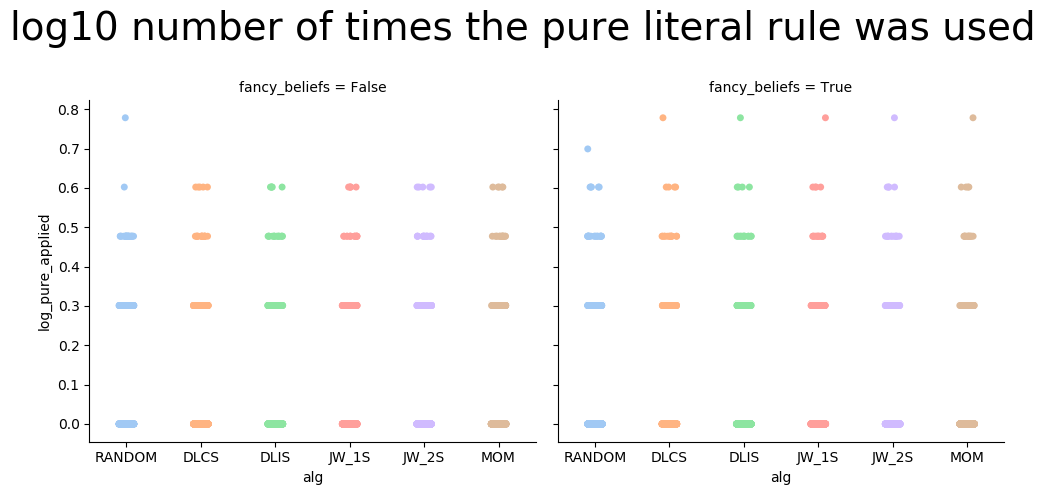
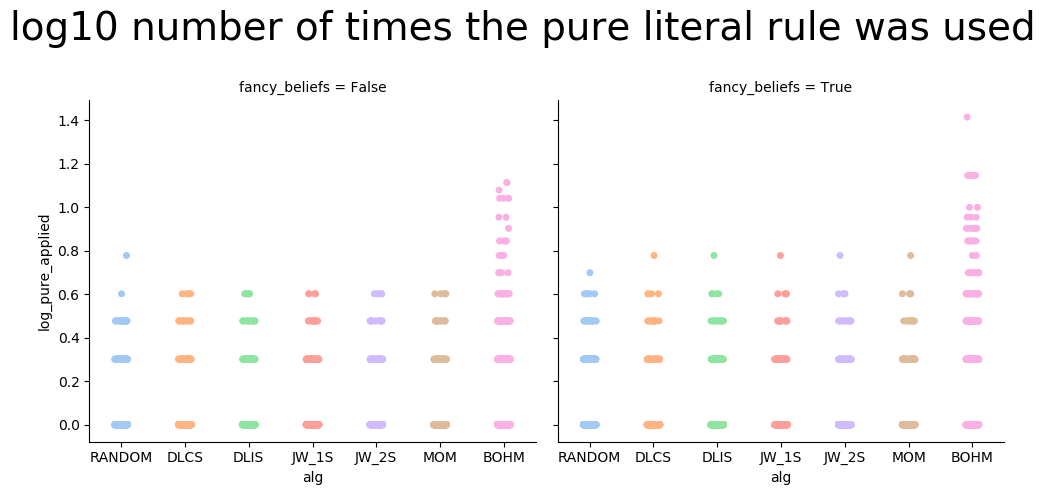
plot bohm

diff --git a/src/plot.py b/src/plot.py
@@ -12,7 +12,11 @@ df['type'] = df['inputfile'].map(lambda s: s.split(os.path.sep)[-2])
 df = df[df['type'] != 'dimacs']
 df['smart_ratio'] = df.apply(lambda x: 1 - x['backtracks'] / x['splits'], axis=1)
 # df['split_to_backtrack'] = df.apply(lambda x: x['splits'] / x['backtracks'])
-df = df[df['alg'].map(lambda x: x not in ['DSCS', 'FOM', 'BOHM'])]  # ditch joke heuristics + Bohm
+df = df[df['alg'].map(lambda x: x not in [
+    'DSCS',
+    'FOM',
+    # 'BOHM',
+    ])]  # ditch joke heuristics + Bohm
 
 def check_significance(df):
     a = df[df.fancy_beliefs == False]
